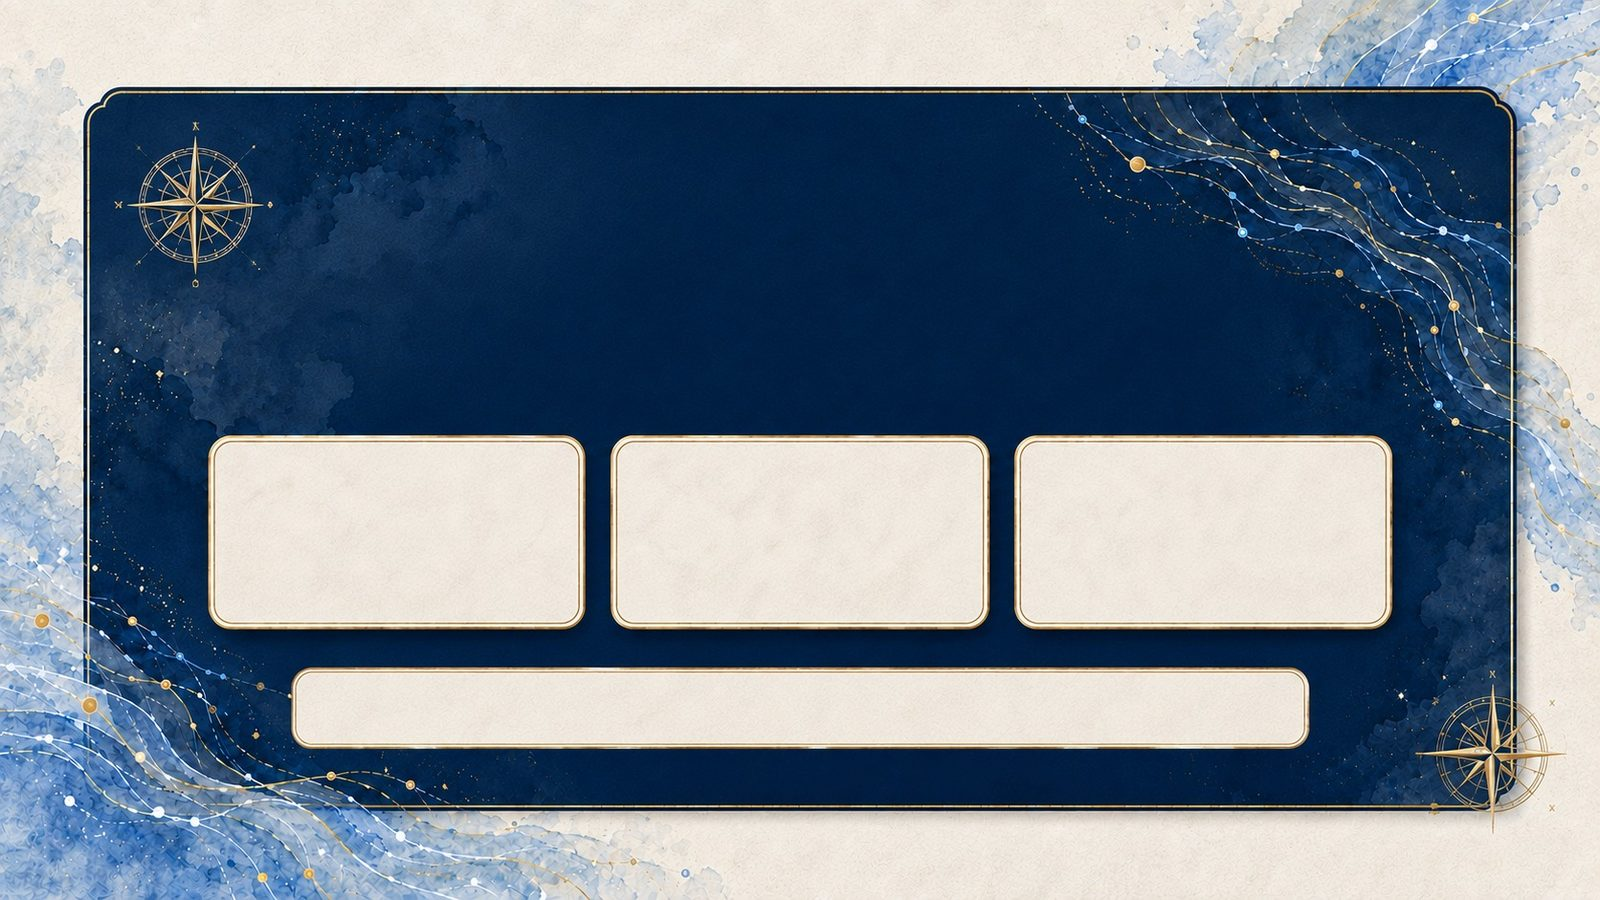
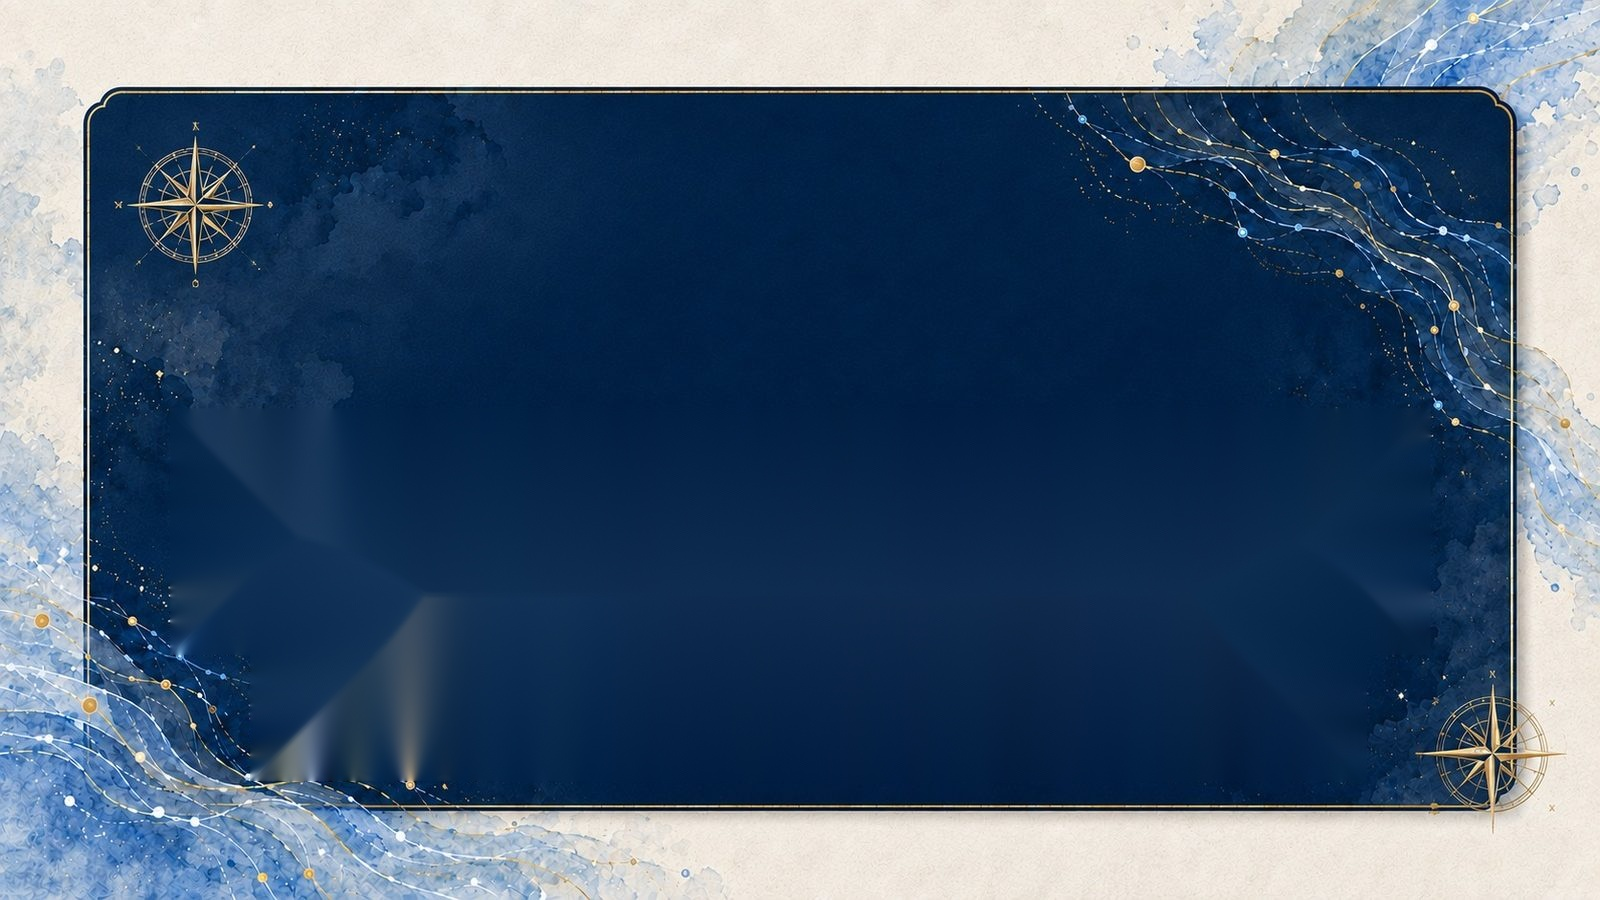
Add files via upload

Changed region(s): [[0.0938, 0.4667, 0.9062, 0.8711]]

diff --git a/style.css b/style.css
@@ -86,6 +86,7 @@ a{color:inherit;text-decoration:none;}
   padding:96px 0;
   overflow:hidden;
   isolation:isolate;
+  scroll-margin-top:var(--header-h);
 }
 .section.alt-section{background:var(--cream-deep);}
 .section-bg{
@@ -191,6 +192,14 @@ a{color:inherit;text-decoration:none;}
 .card-photo{
   width:100%;border-radius:12px;margin-bottom:16px;aspect-ratio:4/3;object-fit:cover;
 }
+/* STEPイラスト（本プロジェクトでできること）は、素材そのものに薄いクリーム地が
+   焼き込まれているため、そのまま四角く配置すると"貼り付けた写真"のように見えて
+   しまう。マスクで縁をカードの地色へフェードさせ、挿絵としてなじませる。 */
+.step-grid .card-photo{
+  border-radius:0;aspect-ratio:1/1;object-fit:contain;max-width:78%;margin:0 auto 6px;
+  -webkit-mask-image:radial-gradient(ellipse at center,#000 55%,transparent 82%);
+  mask-image:radial-gradient(ellipse at center,#000 55%,transparent 82%);
+}
 .step-num{
   display:inline-block;font-size:11.5px;font-weight:800;letter-spacing:.1em;
   color:var(--gold);margin-bottom:.6em;transition:color .4s ease;
@@ -210,15 +219,29 @@ a{color:inherit;text-decoration:none;}
 .flip-card.small p{font-size:13px;}
 .flip-card.small .card-photo{aspect-ratio:1/1;}
 
-/* theme cards */
+/* theme cards ― 募集テーマは、他の白カードのセクションと並んでも埋もれないよう
+   紺×金の"認定証・バッジ"のようなトーンを常時まとわせて視覚的な差をつける */
+.theme-card .flip-card-face{
+  background:var(--navy);border:1.5px solid var(--gold);
+}
+.theme-card:hover .flip-card-face,
+.theme-card:focus-within .flip-card-face{
+  background:var(--navy-deep);border-color:var(--gold-light);
+}
+.theme-card h3{color:#fff;}
+.theme-card:hover h3,.theme-card:focus-within h3{color:var(--gold-light);}
+.theme-card p{color:rgba(255,255,255,.82);}
 .theme-card-head{display:flex;align-items:center;gap:12px;margin-bottom:14px;}
-.card-icon-round{width:44px;height:44px;border-radius:50%;object-fit:cover;flex:none;}
+.card-icon-round{
+  width:44px;height:44px;border-radius:50%;object-fit:cover;flex:none;
+  border:2px solid var(--gold-light);
+}
 .theme-card .label{
-  display:inline-block;font-size:11.5px;font-weight:700;color:var(--gold);
+  display:inline-block;font-size:11.5px;font-weight:700;color:var(--gold-light);
   letter-spacing:.06em;margin-bottom:.6em;transition:color .4s ease;
 }
 .theme-card .try{
-  margin-top:.9em;font-size:13.5px;color:var(--teal);font-weight:700;
+  margin-top:.9em;font-size:13.5px;color:var(--gold-light);font-weight:700;
   transition:color .4s ease;
 }
 
@@ -330,9 +353,11 @@ a{color:inherit;text-decoration:none;}
 .checklist li{display:flex;gap:10px;font-size:14px;color:var(--ink-soft);line-height:1.75;}
 .chk{color:var(--gold);font-weight:800;flex:none;}
 
-/* ---------- Timeline (schedule) ---------- */
-.timeline{max-width:1080px;margin:0 auto;overflow-x:auto;padding-bottom:8px;}
-.tl-track{display:grid;grid-auto-flow:column;grid-auto-columns:180px;gap:16px;}
+/* ---------- Timeline (schedule) ----------
+   6ステップ全てが必ず画面内で完結するよう、横スクロール前提のカルーセルは廃止。
+   PC/タブレットは折り返しグリッド、スマホは縦一列の"ステッパー"に組み替える。 */
+.timeline{max-width:1080px;margin:0 auto;}
+.tl-track{display:grid;grid-template-columns:repeat(3,1fr);gap:18px;}
 .tl-item{
   background:var(--paper);border:1px solid var(--line);border-radius:var(--radius);
   padding:22px 16px;text-align:center;box-shadow:var(--shadow);
@@ -345,6 +370,7 @@ a{color:inherit;text-decoration:none;}
 .tl-dot{
   width:40px;height:40px;border-radius:50%;background:var(--navy);color:#fff;
   display:flex;align-items:center;justify-content:center;font-weight:800;margin:0 auto 12px;
+  flex:none;
 }
 .when{display:block;font-size:11.5px;color:var(--gold);font-weight:700;margin-bottom:.4em;transition:color .4s ease;}
 .tl-item h4{font-size:14.5px;color:var(--navy);margin:0 0 .5em;transition:color .4s ease;}
@@ -382,29 +408,81 @@ a{color:inherit;text-decoration:none;}
   .fnode-arrow{transform:rotate(90deg);}
   .cta-grid{grid-template-columns:1fr;}
   .hero-actions{width:100%;}
+  .tl-track{grid-template-columns:repeat(2,1fr);}
 }
 
+/* ============================================================
+   スマホ表示（〜767px）― PCレイアウトの縮小ではなく、1カラム前提で
+   組み直したスマホ専用スタイル。背景画像はあくまで装飾として縮小・
+   スクロール方式を変えるのみで、本文はすべてHTMLテキスト、アイコンは
+   個別画像のまま扱う（画像へのテキスト焼き込みは行わない）。
+   ============================================================ */
 @media (max-width:767px){
-  .section{padding:64px 0;}
+  .section{padding:56px 0;scroll-margin-top:56px;}
+  .wrap{padding:0 18px;}
   .site-header{height:56px;}
   .site-header-inner{padding:0 14px;}
   .site-brand{gap:.45em;min-width:0;}
   .site-brand-mark{width:28px;height:auto;}
   .site-brand-name{font-size:12.5px;letter-spacing:0;white-space:nowrap;}
   .btn-header{padding:8px 14px;font-size:12px;flex:none;}
+
+  /* ---- ヒーロー ---- */
   .hero-section{padding-top:calc(56px + 24px);}
   .hero-panel{max-width:none;}
   .hero-scrim{background:rgba(250,245,234,.82);}
   .fleet-viewport-desktop{display:none;}
   .fleet-viewport-mobile{display:block;}
   #hero .section-bg{background-image:url('assets/img/backgrounds/hero-bg-mobile.jpg') !important;}
-  .pain-grid,.step-grid,.theme-grid,.benefit-grid{grid-template-columns:1fr;}
+  .hero-title{font-size:clamp(26px,7.8vw,34px);}
+  .hero-actions{flex-direction:column;align-items:stretch;gap:12px;}
+  .hero-actions .btn{width:100%;}
+
+  /* ---- 共通見出し・ノート ---- */
+  .section-head{margin-bottom:2.2rem;}
+  .note-strip{font-size:12.5px;padding:12px 16px;}
+
+  /* ---- カード各種：1カラム、余白をスマホ幅向けに詰め直す ---- */
+  .pain-grid,.step-grid,.theme-grid,.benefit-grid{grid-template-columns:1fr;gap:16px;}
+  .flip-card-face{padding:22px 20px 20px;}
+  .flip-card.small .flip-card-face{padding:20px 18px 18px;}
   .card-icon{max-width:84px;}
-  .hub{grid-template-columns:1fr;grid-template-rows:none;max-width:320px;margin:0 auto;}
+  .step-grid .card-photo{max-width:56%;}
+
+  /* ---- 進め方（3ステップ） ---- */
+  .fnode{padding:18px 16px;}
+
+  /* ---- 支援体制ハブ図 ---- */
+  .hub{grid-template-columns:1fr;grid-template-rows:none;max-width:340px;margin:0 auto;}
   .hub-n1,.hub-n2,.hub-n3,.hub-n4,.hub-n5,.hub-center{grid-column:1;grid-row:auto;}
-  .hub-center{aspect-ratio:auto;padding:20px;order:3;}
+  .hub-center{aspect-ratio:auto;padding:18px;order:3;border-radius:20px;}
   .hub-n1{order:1;} .hub-n2{order:2;} .hub-n3{order:4;} .hub-n4{order:5;} .hub-n5{order:6;}
-  .tl-track{grid-auto-columns:72vw;}
+  .checklist{padding:22px 20px;}
+
+  /* ---- 実施スケジュール：横スクロールのカルーセルではなく、
+     左に線でつながる縦一列のステッパーとして専用レイアウトにする ---- */
+  .timeline{max-width:420px;}
+  .tl-track{display:flex;flex-direction:column;gap:0;}
+  .tl-item{
+    display:flex;align-items:flex-start;gap:14px;text-align:left;
+    background:transparent;border:none;box-shadow:none;border-radius:0;
+    padding:0 0 30px;position:relative;
+  }
+  .tl-item:last-child{padding-bottom:0;}
+  .tl-item:not(:last-child)::before{
+    content:'';position:absolute;left:19px;top:42px;bottom:2px;width:2px;
+    background:var(--line);
+  }
+  .tl-item:hover{background:transparent;transform:none;box-shadow:none;}
+  .tl-item:hover h4{color:var(--navy);}
+  .tl-item:hover p{color:var(--ink-soft);}
+  .tl-item:hover .when{color:var(--gold);}
+  .tl-dot{margin:0;}
+  .tl-content{padding-top:6px;}
+
+  /* ---- CTA ---- */
+  .cta-tile{padding:18px 18px;}
+
   .section-bg{background-attachment:scroll !important;}
 }
 

diff --git a/index.html b/index.html
@@ -402,12 +402,12 @@
 
       <div class="timeline reveal" data-reveal="up">
         <div class="tl-track" data-stagger>
-          <div class="tl-item"><div class="tl-dot">1</div><span class="when">9月頃〜</span><h4>参加募集</h4><p>支援機関・本LP・SNS等を通じて参加事業者を募集</p></div>
-          <div class="tl-item"><div class="tl-dot">2</div><span class="when">説明会</span><h4>説明会・個別相談</h4><p>事業の内容や進め方をご説明し、疑問や不安にお答えします</p></div>
-          <div class="tl-item"><div class="tl-dot">3</div><span class="when">10月頃〜</span><h4>課題整理ワークショップ</h4><p>同じテーマの事業者どうしで、共通する困りごとを整理</p></div>
-          <div class="tl-item"><div class="tl-dot">4</div><span class="when">〜12月頃</span><h4>小さく試す（実証）</h4><p>AI・デジタルツールを使って、低コスト・短期間で試行</p></div>
-          <div class="tl-item"><div class="tl-dot">5</div><span class="when">〜2月頃</span><h4>実装・効果測定</h4><p>選抜事業者で本格的に運用し、効果を数値で確認</p></div>
-          <div class="tl-item"><div class="tl-dot">6</div><span class="when">2027年3月頃</span><h4>成果発信</h4><p>取組の成果を事例として地域に発信</p></div>
+          <div class="tl-item"><div class="tl-dot">1</div><div class="tl-content"><span class="when">9月頃〜</span><h4>参加募集</h4><p>支援機関・本LP・SNS等を通じて参加事業者を募集</p></div></div>
+          <div class="tl-item"><div class="tl-dot">2</div><div class="tl-content"><span class="when">説明会</span><h4>説明会・個別相談</h4><p>事業の内容や進め方をご説明し、疑問や不安にお答えします</p></div></div>
+          <div class="tl-item"><div class="tl-dot">3</div><div class="tl-content"><span class="when">10月頃〜</span><h4>課題整理ワークショップ</h4><p>同じテーマの事業者どうしで、共通する困りごとを整理</p></div></div>
+          <div class="tl-item"><div class="tl-dot">4</div><div class="tl-content"><span class="when">〜12月頃</span><h4>小さく試す（実証）</h4><p>AI・デジタルツールを使って、低コスト・短期間で試行</p></div></div>
+          <div class="tl-item"><div class="tl-dot">5</div><div class="tl-content"><span class="when">〜2月頃</span><h4>実装・効果測定</h4><p>選抜事業者で本格的に運用し、効果を数値で確認</p></div></div>
+          <div class="tl-item"><div class="tl-dot">6</div><div class="tl-content"><span class="when">2027年3月頃</span><h4>成果発信</h4><p>取組の成果を事例として地域に発信</p></div></div>
         </div>
       </div>
       <p class="note-strip reveal" data-reveal="up">※ 上記は現時点（2026年8月）の想定スケジュールです。契約内容の確定にあわせて前後する可能性があります。詳細は説明会にてご案内します。</p>
@@ -457,7 +457,5 @@
 <script src="https://cdnjs.cloudflare.com/ajax/libs/gsap/3.12.5/gsap.min.js"></script>
 <script src="https://cdnjs.cloudflare.com/ajax/libs/gsap/3.12.5/ScrollTrigger.min.js"></script>
 <script src="script.js"></script>
-</body>
-</html>
 </body>
 </html>
